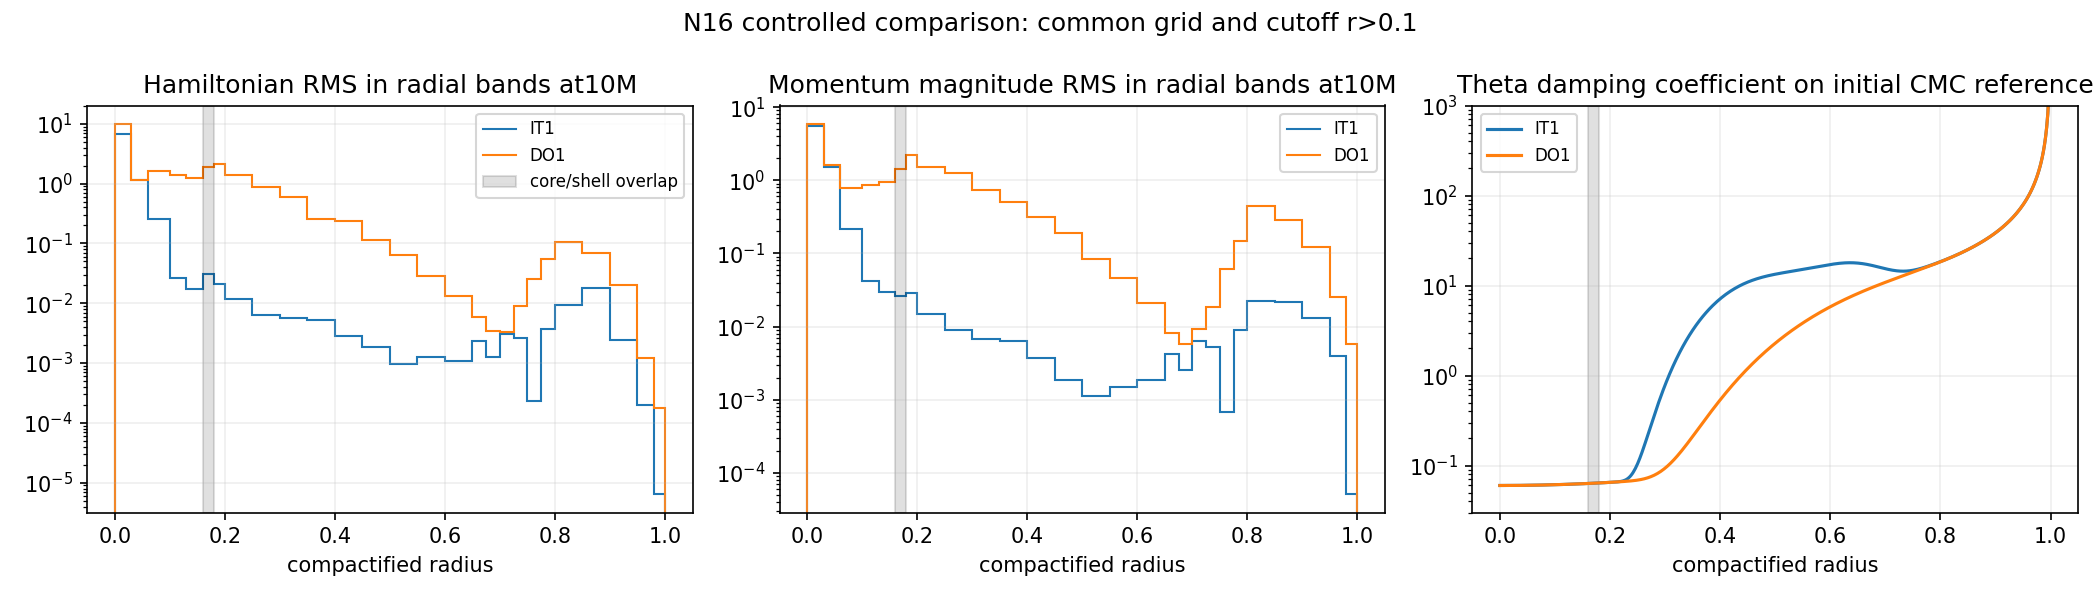
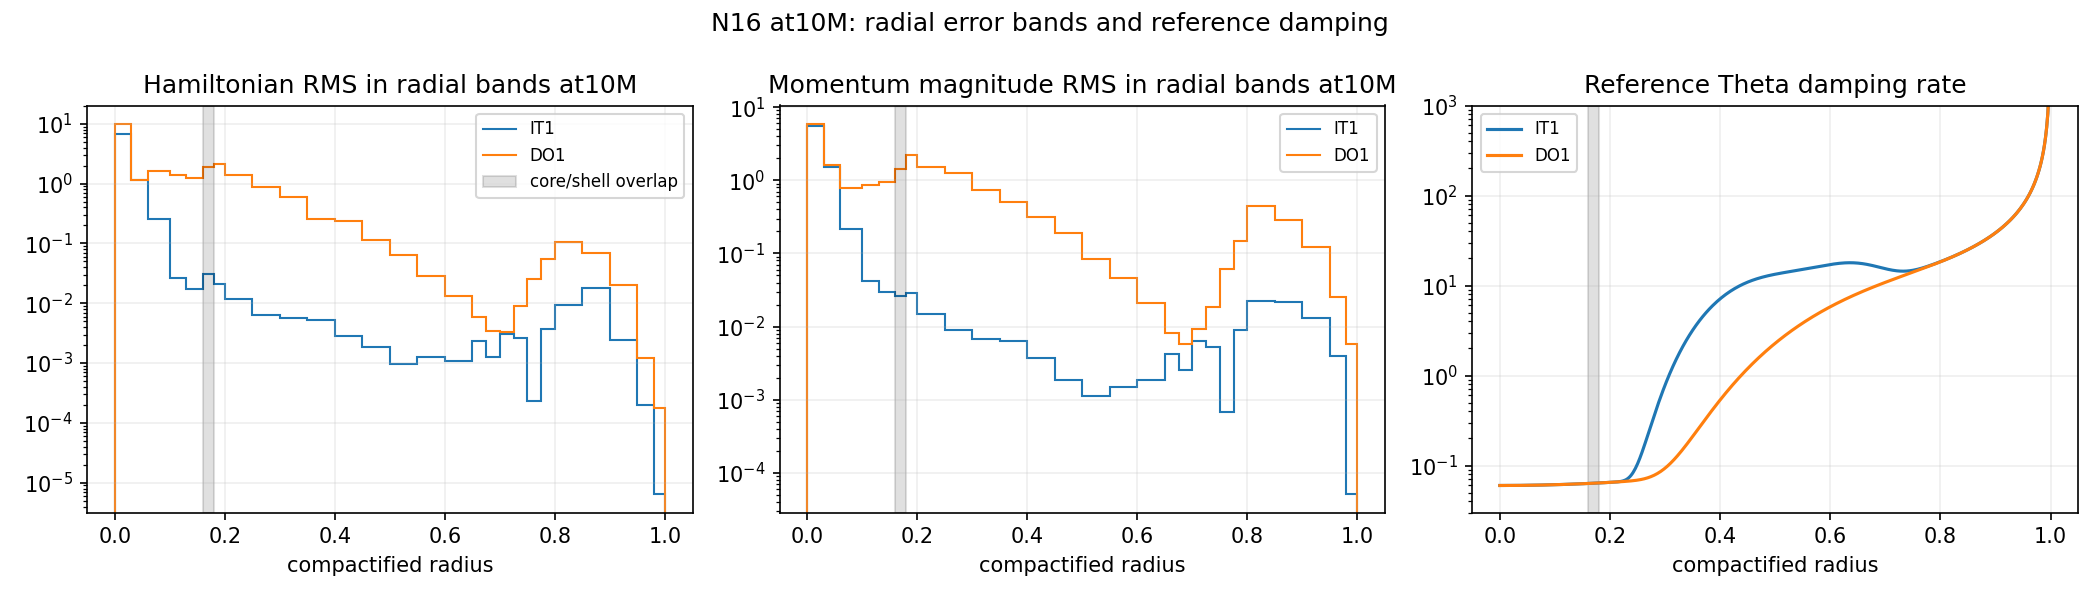
Preserve cancelled N24 records and damping ablation validation

Changed region(s): [[0.681, 0.12, 1.0, 0.18], [0.3095, 0.0, 0.681, 0.06]]

diff --git a/docs/hyperbolic-shift-3d/reproduction/direct-outer-investigation-v1/plot_radial.py b/docs/hyperbolic-shift-3d/reproduction/direct-outer-investigation-v1/plot_radial.py
@@ -16,8 +16,8 @@ r=np.linspace(0,.999,500);o=(1-r*r)/2;alpha=(1+r*r)/2;w=smooth((.8-r)/.24)
 for label,s,old in [('IT1',smooth((.56-r)/.36),4*alpha+w*(8*alpha-4*alpha)),('DO1',smooth((.9-r)/.7),4*alpha)]:
  rate=((1-s)*old*1.01+s*.06*alpha)/o
  axs[2].plot(r,rate,label=label)
-for ax,title in zip(axs,['Hamiltonian RMS in radial bands at10M','Momentum magnitude RMS in radial bands at10M','Theta damping coefficient on initial CMC reference']):
+for ax,title in zip(axs,['Hamiltonian RMS in radial bands at10M','Momentum magnitude RMS in radial bands at10M','Reference Theta damping rate']):
  ax.set(xlabel='compactified radius',title=title,yscale='log');ax.grid(alpha=.2);ax.axvspan(.16,.18,alpha=.12,color='k',label='core/shell overlap' if ax==axs[0] else None);ax.legend(fontsize=8)
 axs[2].set_ylim(.03,1e3)
-fig.suptitle('N16 controlled comparison: common grid and cutoff r>0.1');fig.tight_layout();fig.savefig(HERE/'radial-and-damping.png',dpi=150)
+fig.suptitle('N16 at10M: radial error bands and reference damping');fig.tight_layout();fig.savefig(HERE/'radial-and-damping.png',dpi=150)
 (HERE/'radial-summary.json').write_text(json.dumps(summary,indent=2)+'\n');print(json.dumps(summary,indent=2))

diff --git a/docs/hyperbolic-shift-3d/reproduction/direct-outer-investigation-v1/README.md b/docs/hyperbolic-shift-3d/reproduction/direct-outer-investigation-v1/README.md
@@ -69,3 +69,14 @@ retain horizon quality flags and check horizon mass/radius against the baseline.
 Do not advance to N24 automatically based solely on native/worker completion.
 The initial DG1 run is diagnostic; review evidence before declaring a successful
 formulation or choosing the next modification. The full objective remains active.
+
+At r=.30,.35,.40 on the initial CMC reference, the old/new Theta damping-rate
+ratios are8.36,15.15,13.29. This is a coefficient comparison, not an observed
+growth-rate fit. The damping-only DG1 test separates this change from gauge
+placement. Short local DG1 evolution reached coordinate.001 in two steps;
+a DG1 restart reached.0015 in three total steps, with null residual<=1.12e-15.
+
+All123 controller/worker/campaign tests passed. The new campaign helper rejects
+N24 plans and incompatible DO1/IT1/GD1 restart schemas. Frozen source for DG1:
+35004000d25e34767069a8da1d2ad45bdc42c3c1. Later documentation does not alter
+the built source snapshot.
